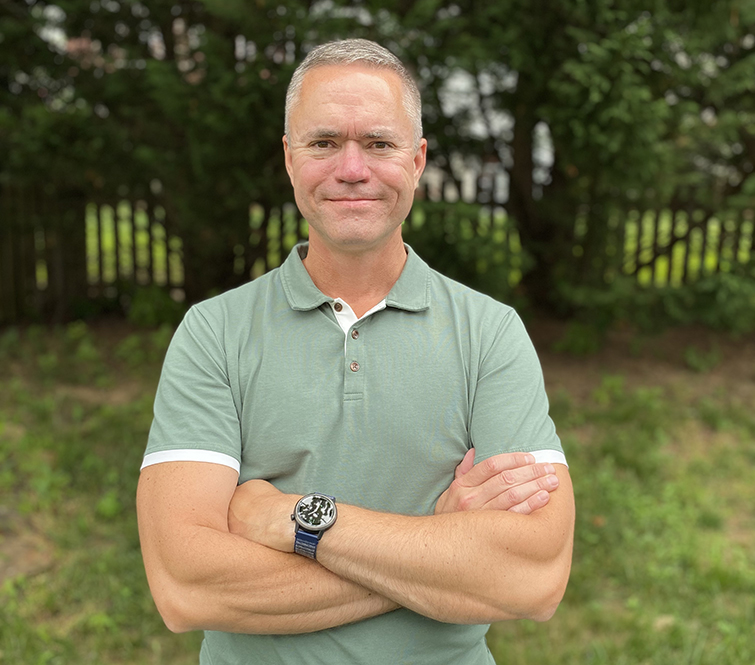
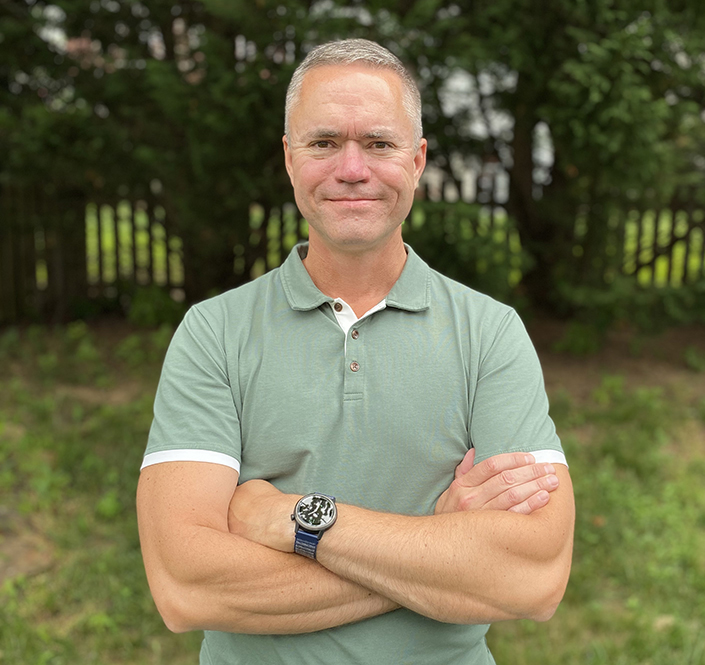
contact button

diff --git a/resources/views/pages/about.blade.php b/resources/views/pages/about.blade.php
@@ -55,7 +55,7 @@
                             <p>So, if you're ready to ditch the one-dimensional thinking and start living your best, most optimized life, you've come to the right place. Let's embark on this journey together, and I promise, it's going to be one heck of a ride.</p>
                         </div>
                          <div class="md:w-1/2 2xl:w-1/3 flex items-center justify-center">
-                            <img class="rounded-xl shadow-xl shadow-zinc-400 border-2 border-primary" src="/images/damonleach.jpg" alt="Damon Leach standing outside">
+                            <img class="rounded-xl shadow-xl shadow-zinc-400 border-2 border-primary" src="/images/damonleach2.jpg" alt="Damon Leach standing outside">
                         </div>
                     </div>
                 </div>
